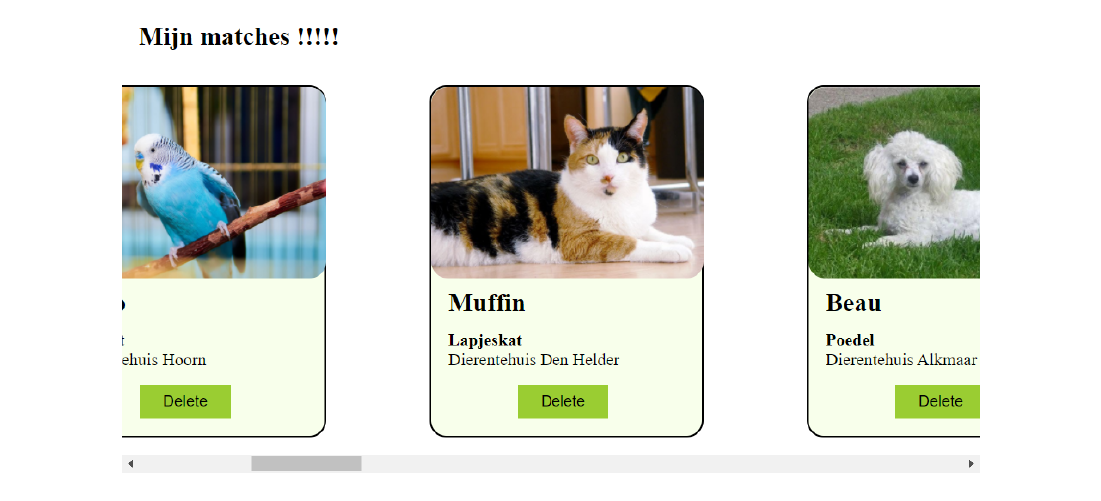
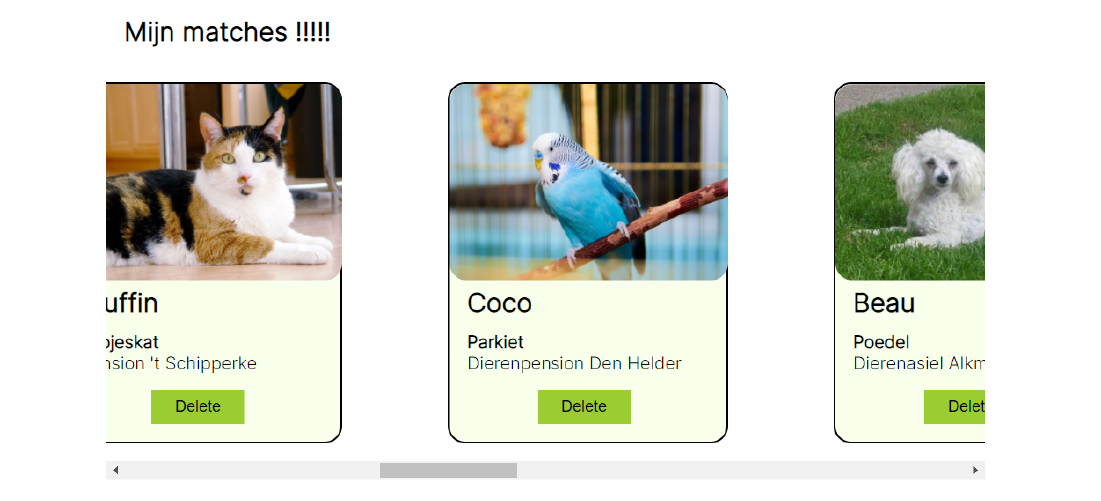
toevoeging images & aanpassing CSS

diff --git a/static/css/style.css b/static/css/style.css
@@ -20,6 +20,7 @@ html {
 
 body {
     background-color: var(--BasisWit);
+    font-family: 'Inter', Arial, sans-serif;
 }
 
 main {
